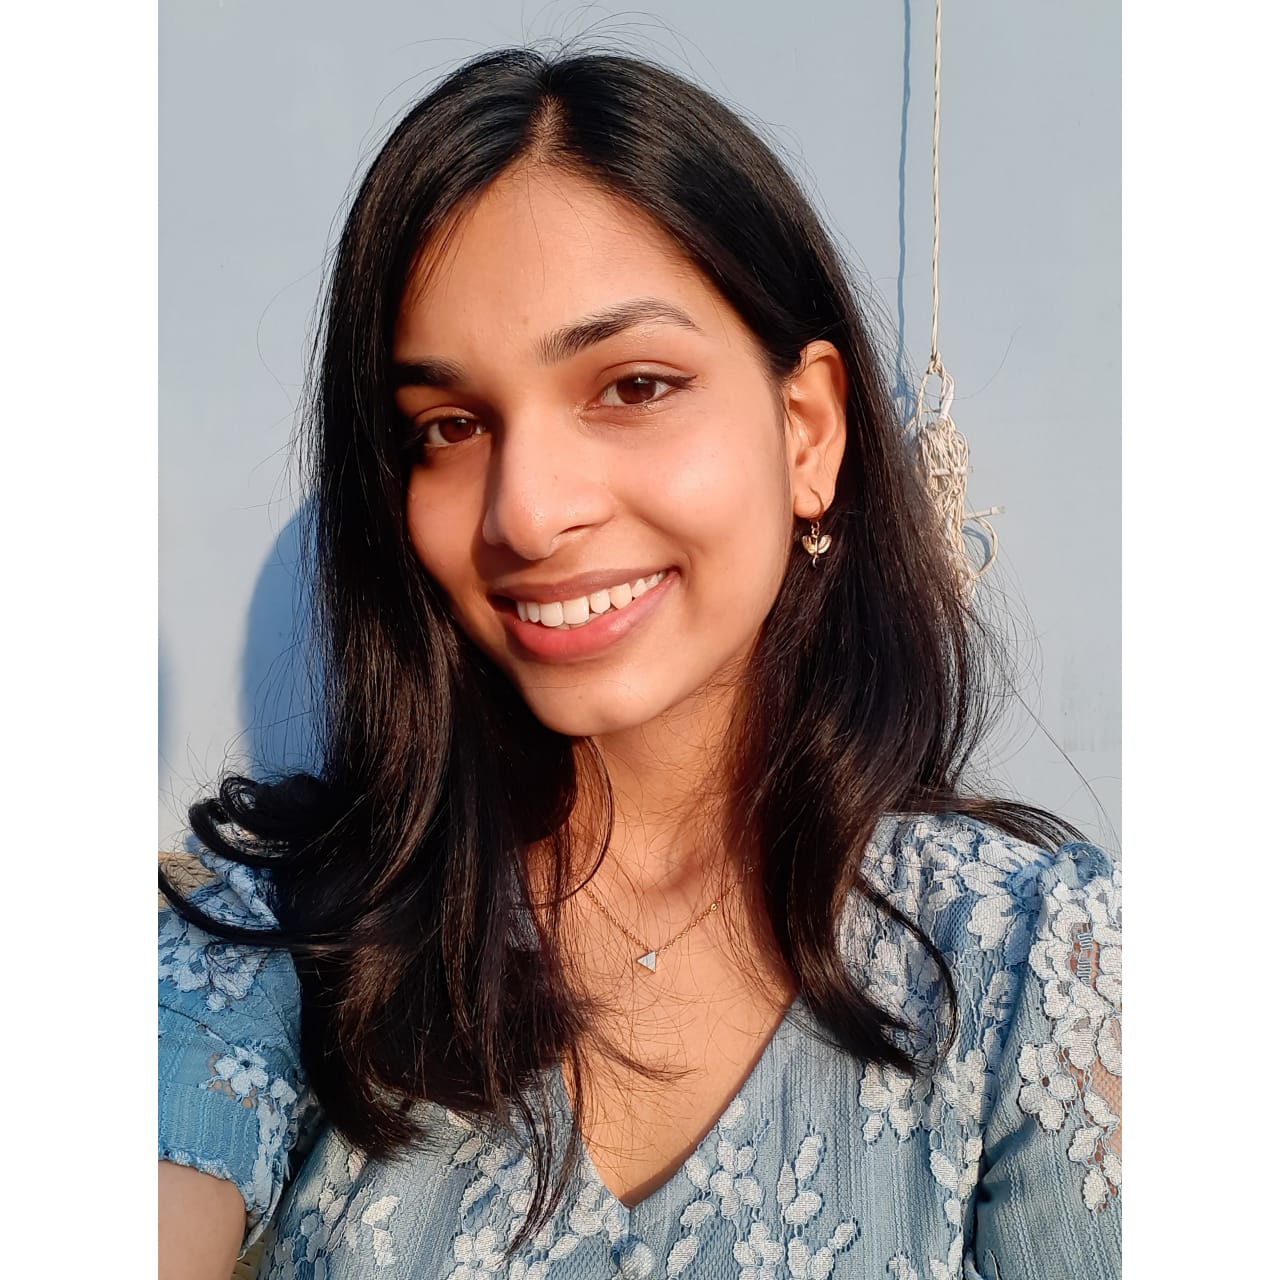
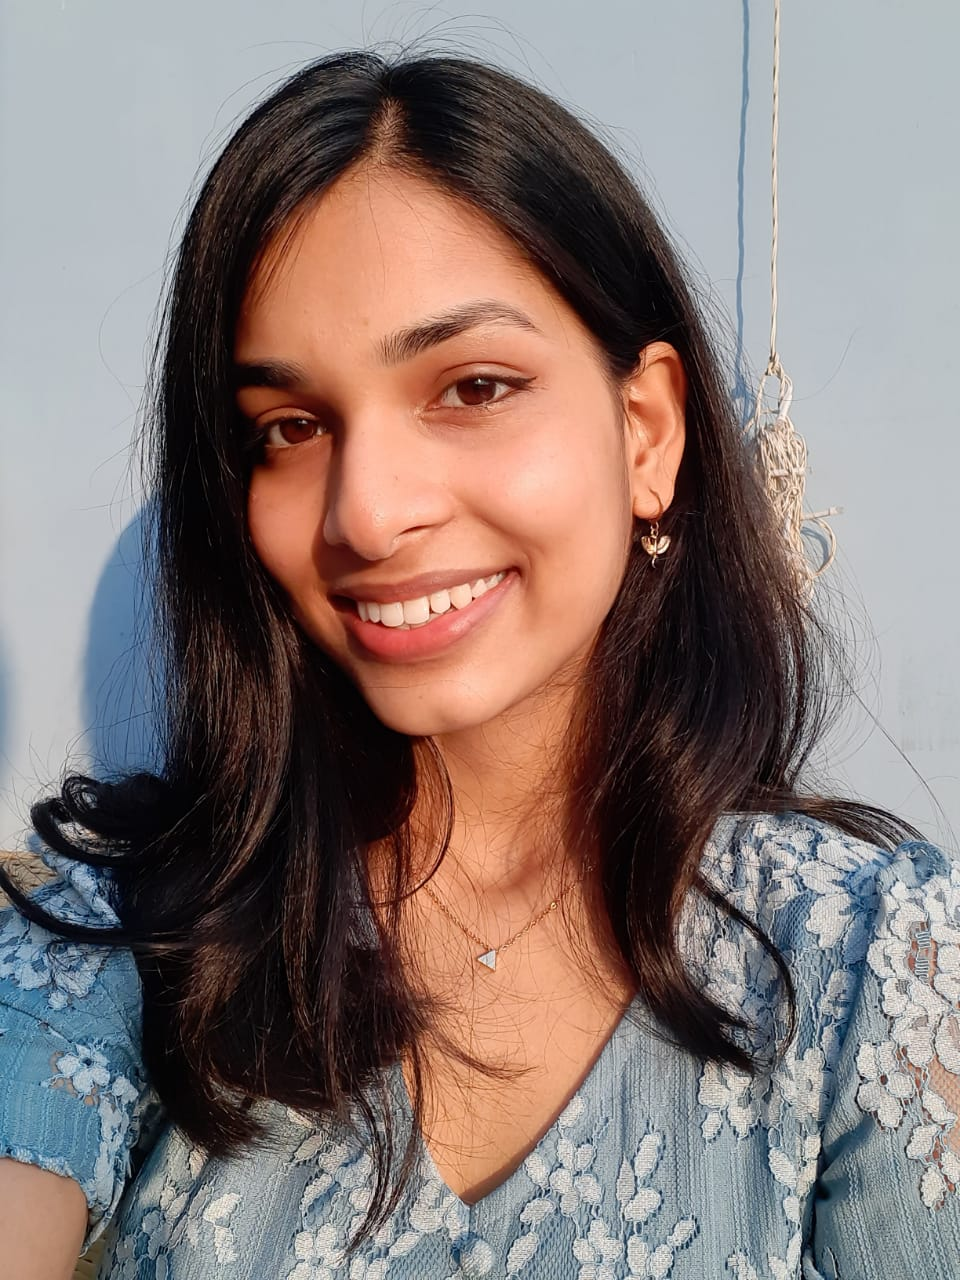
fix: about img

diff --git a/css/main.css b/css/main.css
@@ -15,8 +15,7 @@
 .profile{
     /* box-shadow:var(--dark-gray) 2px 5px 5px;
     border-radius: 50%; */
-    width: 450px;
-    height: 450px;
+    height: 350px;
 }
 .-row{
     flex-wrap: wrap;
@@ -28,7 +27,8 @@
 }
 .col{
     flex: 1 1 calc(33.33% - 20px);
-    padding: 1.5rem;
+    padding: 4.5rem;
+    margin: auto;
 }
 .-title{
     font-size: 2em;
@@ -209,3 +209,23 @@ header h3{
     padding: 4rem 1em;
     text-align: center;
 }
+@media screen and (max-width: 800px){
+    .col{
+        padding: 0.5rem;
+    }
+    .-noflex{
+        flex: none;
+    }
+}
+
+@media screen and (max-width: 670px){
+    .col{
+        padding: 2.5rem;
+    }
+}
+@media screen and (max-width: 320px){
+    .col{
+        padding: 0.5rem;
+    }
+}
+

diff --git a/components/about/about.html b/components/about/about.html
@@ -47,7 +47,7 @@
             </div>
             
         </div>
-        <div class="col">
+        <div class="col -noflex">
             <img class="profile" src="../../assets/neha.jpeg">
         </div> 
     </div>
